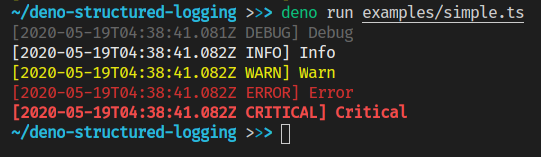
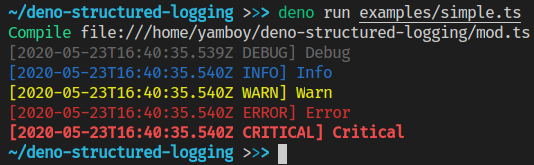
Update readme and examples

diff --git a/examples/complex.ts b/examples/complex.ts
@@ -12,12 +12,12 @@ import {
 
 const logger = createLogger({
   minimumLevel: LogLevel.INFO,
-  outputFormat: textFormat, // A custom output format
+  outputFormat: textFormat, // You can customise the default output format
 })
   .addSink(consoleSink({
     colorOptions: { info: green } // You can customise the log level colors
   }))
-  .addSink(fileSink("file.ndjson"), jsonFormat); // You can set a custom format per sink
+  .addSink(fileSink("log.ndjson"), jsonFormat); // You can set a custom format per sink
 
 logger.debug("Debug"); // Ignored due to the minimumLevel
 logger.info("This is {type} logging in {program}", "Structured", "Deno");
@@ -27,5 +27,3 @@ const num = 1;
 const array = ["a", "b", "c"];
 
 logger.warn("Numbers work: {number} as well as arrays: {arr}", num, array);
-
-logger.info("Object: {object}", () => {})

diff --git a/README.md b/README.md
@@ -1,12 +1,17 @@
 # Deno Structured Logging (currently unstable)
 
+[![deno doc](https://doc.deno.land/badge.svg)](https://doc.deno.land/https/raw.githubusercontent.com/Yamboy1/deno-structured-logging/master/mod.ts)
+[![deno.land](https://img.shields.io/badge/deno.land-0.3.0-blue)](https://deno.land/x/deno_structured_logging@0.3.0)
+
 A better logger for deno, with support for structured logging.
 
 ## Simple Example
 ```ts
-import { createLogger } from "https://deno.land/x/deno_structured_logging/mod.ts";
+// Copyright 2020 Yamboy1. All rights reserved. MIT license.
 
-const logger = createLogger();
+import { createLogger, consoleSink } from "https://deno.land/x/deno_structured_logging/mod.ts";
+
+const logger = createLogger().addSink(consoleSink());
 
 logger.debug("Debug");
 logger.info("Info");
@@ -18,13 +23,24 @@ logger.critical("Critical");
 
 ## More complex example
 ```ts
-import { createLogger, LogLevel } from "https://deno.land/x/deno_structured_logging/mod.ts";
-import { consoleSink, fileSink } from "https://deno.land/x/deno_structured_logging/sinks/mod.ts"
+import { green } from "https://deno.land/std@0.51.0/fmt/colors.ts";
+import {
+  createLogger,
+  LogLevel,
+  consoleSink,
+  fileSink,
+  jsonFormat,
+  textFormat,
+} from "https://deno.lan/x/deno_structured_logging/mod.ts";
 
 const logger = createLogger({
   minimumLevel: LogLevel.INFO,
-  sinks: [consoleSink(), fileSink("test.log")],
-});
+  outputFormat: textFormat, // You can customise the default output format
+})
+  .addSink(consoleSink({
+    colorOptions: { info: green } // You can customise the log level colors
+  }))
+  .addSink(fileSink("log.ndjson"), jsonFormat); // You can set a custom format per sink
 
 logger.debug("Debug"); // Ignored due to the minimumLevel
 logger.info("This is {type} logging in {program}", "Structured", "Deno");
@@ -34,7 +50,6 @@ const num = 1;
 const array = ["a", "b", "c"];
 
 logger.warn("Numbers work: {number} as well as arrays: {arr}", num, array);
-
 ```
 ![Complex Example](./assets/complex.png)
 
@@ -44,7 +59,7 @@ DSL uses it's own form of string formatting, similar to Serilog in C#. The synta
 ```ts
 logger.info("Hello {name}, this is another {variable}", "First", 2);
 ```
-where `"First"` and `2` are substituted into `{name}` and `{variable}` respectively. With the default console sink, the names don't really matter however they help readability of the format and with more complex sinks, for example a JSON sink, they could be used as property names.
+where `"First"` and `2` are substituted into `{name}` and `{variable}` respectively. With the default console sink, the names don't really matter however they help readability of the format and with more complex formats, for example a JSON format, they could be used as property names.
 
 ## Available sinks
 
